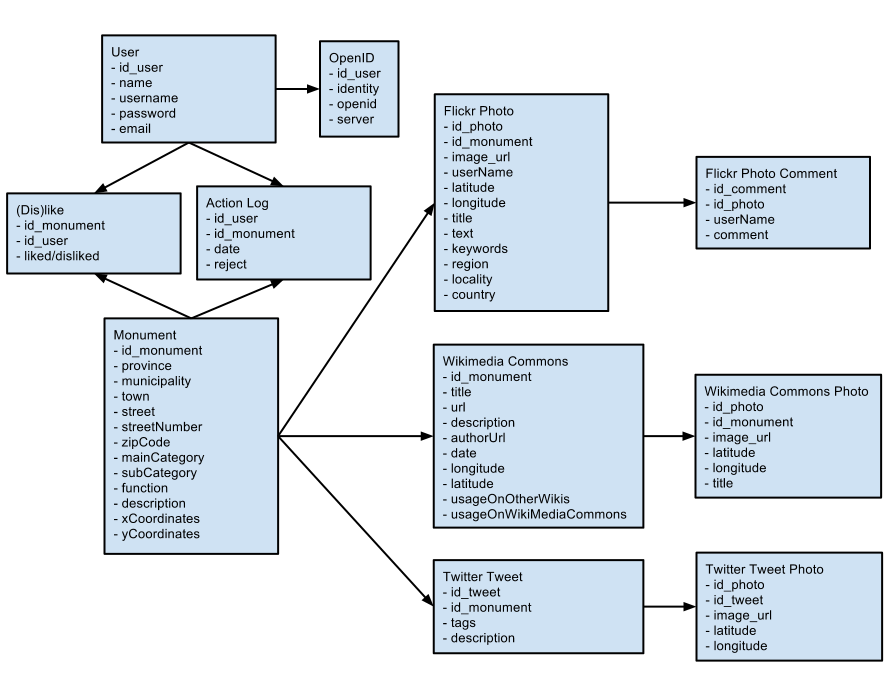
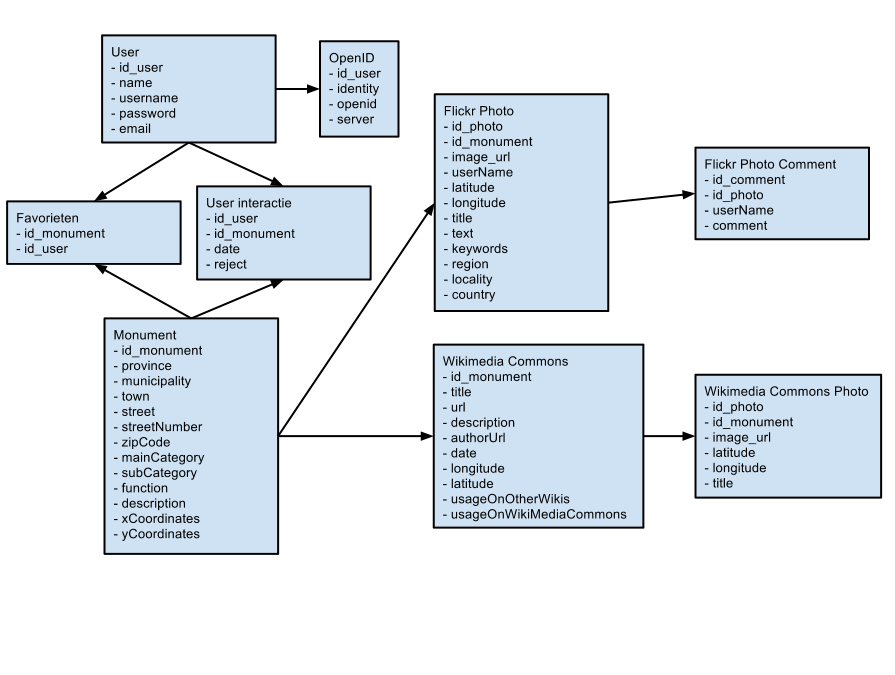
final requirements

diff --git a/reports/Requirements Analysis/final/requirements.tex b/reports/Requirements Analysis/final/requirements.tex
@@ -50,7 +50,6 @@
 \author{Sjoerd van Bekhoven\\ Tim Eversdijk \\ Herman Blanken \\ Rutger Plak \and 4014774 \\ 4005562 \\ 4078624 \\ 1358375}
 
 \maketitle
-\setcounter{page}{0}
 \thispagestyle{empty}
 \vspace{10cm}
 \begin{figure}[ht!]
@@ -58,6 +57,9 @@
 	\includegraphics[width=\textwidth]{cultuurapp-logo.png}
 \end{figure}
 \clearpage
+\setcounter{page}{0}
+\thispagestyle{empty}
+\
 \clearpage
 \tableofcontents
 
@@ -76,32 +78,30 @@ Het systeem \glossary{name={Systeem},description={de backend en\/of frontend}} z
 				
 	\rsubsection{Back-end}
 \glossary{name={Back-end},description={het deel van het systeem dat niet zichtbaar is voor de toerist}}
-	De back-end focust zich op het vergaren van nieuwe informatie voor ons systeem. Dit gebeurt op meerdere manieren:
+	De back-end focust zich op het vergaren van nieuwe en doorgeven aan de front-end van informatie. Dit gebeurt onder andere op de volgende manieren:
 	\begin{itemize}
-		\item Niet alle monumenten hebben standaard een categorie aan zich gelinkt. De back-end zal door middel van beeld- en tekstanalyse bepalen in welke categorie het monument ingedeeld moet worden.
-		\item Foto's van de monumenten zullen van Flickr en Wikimedia Commons gehaald worden.
+		\item Het completeren van de database door textuele en visuele analyse.
+		\item Het zoeken relevante foto's van Flickr en Wikimedia Commons.
 \glossary{name={Wikimedia Commons},description={website waar miljoenen multimedia bestanden verzameld zijn, welke door iedereen vrij te gebruiken zijn}}
 \glossary{name={Flickr},description={een website waarop mensen foto's kunnen uploaden en delen}}
-		\item Data en foto's worden via de API \glossary{name={API},description={een schil die functies en data van het desbetreffende systeem beschikbaar stelt voor de buitenwereld via gedocumenteerde functies
-}} van rijksmonumenten.nl opgehaald.
-		\item Er wordt user-interactie-informatie bijgehouden.
-		\item User-interactie-informatie wordt verwerkt tot bruikbare informatie, zoals bijvoorbeeld voorkeuren van users of applicatie brede aanbevelingen en sorteringen.
+		\item Het aanvullen van data van de monumenten door het koppelen van externe databronnen. \glossary{name={API},description={een schil die functies en data van het desbetreffende systeem beschikbaar stelt voor de buitenwereld via gedocumenteerde functies}}
+		\item Het bijhouden van gebruikersinteractie en deze te gebruiken bij aanbevelingen aan toeristen.
 	\end{itemize}
-
+	
 \rsection{Functional requirements}
 \rsubsection{Weergaves}
-	\rsubsubsection{Kaart}
+	\rsubsubsection{Kaartweergave}
 	\begin{enumerate}
-		\reqitem{overview-maps} Het systeem moet de gefilterde monumenten (beschreven in \ref{sec:sub:Filtering}) als spelden weergeven op een Google Maps\footnote{\label{googlemaps} http://code.google.com/apis/maps/index.html} kaart.	
+		\reqitem{overview-maps} Het systeem moet de gefilterde monumenten (beschreven in \ref{sec:sub:Filteren en zoeken}) als spelden weergeven op een Google Maps\footnote{\label{googlemaps} http://code.google.com/apis/maps/index.html} kaart.	
 		\reqitem{overview-gps} Het systeem moet de locatie van de de toerist op de Google Maps$^{\ref{googlemaps}}$ kaart aangeven, mits deze beschikbaar is. 
 	\end{enumerate}
 	
-	\rsubsubsection{Overzichtsweergave} \label{sec:views-detail}
+	\rsubsubsection{Lijstweergave} \label{sec:views-detail}
 	\begin{enumerate}
-		\reqitem{overview-list} De overzichtsweergave toont een lijst met op iedere rij een monument.
+		\reqitem{overview-list} De lijstweergave toont een lijst met op iedere rij een monument.
 		\reqitem{overview-info} Bij ieder monument staat een thumbnail, de titel, een korte beschrijving en categorie\"en.
 		\reqitem{overview-click} Wanneer de toerist op een rij klikt komt hij op de detailpagina.
-\reqitem{overview-order-filter} De getoonde set monumenten wordt bepaald door de door de toerist gekozen filtering en sortering als beschreven in \ref{filtering} \& \ref{sortering}.
+\reqitem{overview-order-filter} De getoonde set monumenten wordt bepaald door de door de toerist gekozen filtering en sortering als beschreven in \ref{sec:sub:Filteren en zoeken} \& \ref{sortering}.
 	\end{enumerate}
 	
 	\rsubsubsection{Detailpagina} \label{sec:views-detail}
@@ -115,10 +115,10 @@ Het systeem \glossary{name={Systeem},description={de backend en\/of frontend}} z
 \reqitem{detail-places-select} De toerist heeft de mogelijkheid om te selecteren welke faciliteiten rondom de monument-locatie worden getoond.
 \reqitem{detail-analyse} De detailpagina toont visueel gelijkende monumenten. Zie ook \ref{sec:sub:Monumenten vergelijken aan de hand van foto's}.
 		\reqitem{detail-favorize} De detailpagina bevat een knop waarmee een CultuurApp-gebruiker het monument aan zijn favorietenlijst kan toevoegen. Zie ook \ref{sec:sub:Favorieten toevoegen}.	
+\glossary{name={CultuurApp-gebruiker},description={een ingelogde gebruiker van het systeem}}
 \end{enumerate}
 
-\rsubsection{Filtering}
-\label{filtering}
+\rsubsection{Filteren en zoeken}
 \begin{enumerate}
 	\reqitem{filter-distance} Toeristen kunnen monumenten filteren op een bepaalde afstand van een zoeklocatie\footnote{\label{zoeklocatie}De zoeklocatie is een tekstvak op de webpagina waar een locatie in de vorm van een adres of door google maps herkende plaatsaanduiding kan worden ingegeven. Deze kan eventueel automatisch worden ingevuld met de locatie die de browser aanbiedt.}.
 	\reqitem{filter-keywords} Toeristen kunnen monumenten filteren op trefwoorden.	
@@ -131,7 +131,7 @@ Het systeem \glossary{name={Systeem},description={de backend en\/of frontend}} z
 \rsubsection{Sortering}
 \label{sortering}
 \begin{enumerate}
-\reqitem{sort-popularity} Toeristen kunnen monumenten sorteren op populariteit.
+\reqitem{sort-popularity} Toeristen kunnen monumenten sorteren op populariteit. Zie ook \ref{sec:sub:Populariteit}.
 \reqitem{sort-distance} Toeristen kunnen monumenten sorteren op afstand vanaf de gegeven zoeklocatie$^{\ref{zoeklocatie}}$.
 \reqitem{sort-year} Toeristen kunnen monumenten sorteren op bouwjaar.
 \end{enumerate}
@@ -143,6 +143,7 @@ Het systeem \glossary{name={Systeem},description={de backend en\/of frontend}} z
 	\reqitem{4sq-checkins} De website toont het aantal check-ins bij de venue (zie ook \reqref{views-checkins}).
 	\reqitem{detail-4sq} De website slaat bij het bezoeken van de detailpagina van een monument het meest recente aantal check-ins op FourSquare op.
 	\reqitem{harvest-4sq} Een beheerder kan voor een hele set toegevoegde monumenten FourSquare locaties aan laten maken en check-ins laten controleren. Dit kan ook ingepland worden.
+	\glossary{name={Beheerder},description={de ontwikkelaars van de applicatie}}
 \end{enumerate}
                 
 \rsubsection{Weersinformatie}
@@ -219,140 +220,139 @@ De CultuurApp-gebruiker moet foto's kunnen toevoegen van een monument.
 
 \rsubsection{Completeren dataset}
 \begin{enumerate}
-	\reqitem{completing-dataset} Het systeem kan de categorie-specifieke informatie filteren uit de afbeeldingen en beschrijvingen van moumenten met behulp van visuele en textuele analyse. Zie ook \ref{sec:sub:Visuele analyse} en \ref{sec:sub:Textuele analyse}.
+	\reqitem{completing-dataset} Het systeem kan de categorie-specifieke informatie filteren uit de afbeeldingen en beschrijvingen van monumenten met behulp van visuele en textuele analyse. Zie ook \ref{sec:sub:Visuele analyse} en \ref{sec:sub:Textuele analyse}.
 	\reqitem{completing-dataset-coupling} Het systeem kan met behulp van de verworven categorie-specifieke informatie de ongecategoriseerde monumenten indelen in een visueel en textueel gelijkende categorie.
 \end{enumerate}
 
+\rsubsection{Aanbevelingen}
+\begin{enumerate}
+	\reqitem{recom-general} Het systeem kan aanbevelingen geven aan toeristen aan de hand van het profiel dat aan de toerist of CultuurApp-gebruiker is toegewzen. Zie ook \ref{sec:sub:User profiler}.
+	\reqitem{recom-general} Het systeem neemt in de aanbevelingen ook de algemene populariteit mee. Zie ook \ref{sec:sub:Populariteit}.
+\end{enumerate}
 
-		
-\clearpage
+\rsubsection{Populariteit}
+\begin{enumerate}
+	\reqitem{popularity} Het systeem kan de algemene populariteit van een monument bepalen door de volgende dingen mee te nemen in een gewogen functie:
+\begin{enumerate}
+\item het aantal views
+\item het aantal foursquare check-ins Zie ook \ref{sec:sub:Foursquare}.
+\item het aantal keer op de favorietenlijst van CultuurApp-gebruikers. Zie ook \ref{sec:sub:Favorieten toevoegen}.
+	\end{enumerate}
+\end{enumerate}
+
+\rsubsection{User profiler}
+\begin{enumerate}
+	\reqitem{profiler-general} Het systeem kan toeristen en CultuurApp-gebruikers indelen in verschillende clusters aan de hand van handelingen van gebruikers. Zie ook \ref{sec:sub:Gebruikers interactie}.
+\end{enumerate}
 
 \rsection{Quality requirements}	
 		 	 	 		
-\begin{enumerate}			
-
-\item{Toegankelijkheid}
+\rsubsection{Toegankelijkheid}
 	\begin{enumerate}
 		\reqitem{toegankelijkheid-client} De client heeft slechts een webkit of Gecko internetbrowser met een javascript engine. Dit betekent dat het op iedere computer / handheld met een gerenomeerde webbrowser (Google Chrome, Mozilla Firefox, Safari) werkt. Op een handheld device, zoals een iPhone of Android toestel, zal het systeem ook werken. 
 		\reqitem{toegankelijkheid-locatie} Een toerist kan het systeem thuis gebruiken, maar ook op locatie (mits verbonden met internet).
 \end{enumerate}
 
-\item{Prestaties / Efficientie}
+\rsubsection{Prestaties / Efficientie}
 \begin{enumerate}	
-		\reqitem{perf-php} 
 	\reqitem{perf-js} De client berekent zelf de weergaves en de server wordt hier niet mee belast. Op deze manier wordt voorkomen dat kostbare resources worden verspilt.
 \end{enumerate}
 
-\item{Onderhoudbaarheid}
+\rsubsection{Onderhoudbaarheid}
 	\begin{enumerate}
 		\reqitem{maint-pieces}Alle verbindingen met externe of interne data wordt aan de hand van kleine stukken code gemaakt. Deze kleine stukken code zijn eenvoudig te onderhouden.
 		\reqitem{maint-repo}De updates kunnen eenvoudig op de webserver worden geinstalleerd door een nieuwe checkout van de code-repository te doen.
 		\reqitem{maint-lokaal}Het lokaal ontwikkelen maakt het mogelijk nieuwe software uitvoerig te testen voor het online te zetten.
 	\end{enumerate}
 
-\item{Betrouwbaarheid en beschikbaarheid}
+\rsubsection{Betrouwbaarheid en beschikbaarheid}
 \begin{enumerate}
 	\reqitem{avail-git} Door de manier van ontwikkelen is de server bij het updaten van de server slechts luttele seconden offline.
 	\reqitem{relia-test} De betrouwbaarheid van de updates wordt gegarandeerd door de update eerst uitvoerig te testen op lokale systemen die hetzelfde zijn geconfigureerd als de webserver.
 	\reqitem{avail-extern} Door het gebruik van verschillende externe databron valt bij het niet beschikbaar zijn van zo'n databron slechts (een deel van) een module uit.
 	\reqitem{avail-maps} De kaarten Google Maps$^{\ref{googlemaps}}$ zijn een kritiek component, indien Google Maps niet beschikbaar is, is het systeem onbruikbaar. Google Maps heeft echter een up-time van minimaal 99,9\%\footnote{http://www.google.com/enterprise/earthmaps/maps-sla.html}. Dat komt neer op maximaal 90 seconden per dag, in de praktijk merkt een toerist hier niets van.
+	\reqitem{avail-backup} Het systeem maakt elke nacht een back-up van alle opgeslagen data op een andere server.
 \end{enumerate}
 
-\item{Security} 
+\rsubsection{Security} 
 \begin{enumerate}
 \reqitem{sec-SQL} Het framework Kohana voorkomt sql-injections wanneer queries worden geseraliseerd via dit framework.
-\reqitem{sec-} 
 \end{enumerate}
-\item{Precisie and Accuraatheid} 
+\rsubsection{Precisie and Accuraatheid} 
 	\begin{enumerate}
 		\reqitem{prec-aanbevelingen} De aanbevelingen worden door het systeem op volgorde van relevantie getoond. Wanneer toeristen consequent niet de nummer 1 aanbeveling van een monument aanklikken, zal dit betekenen dat de aanbeveling niet correct is.
 \end{enumerate} 
-\end{enumerate}
 
-\rsection{Design requirements}	
-
-\begin{enumerate}		 	 	 		
-\item{Constraints based on the type of users} 
+\rsection{Design requirements}		 	 	 		
+\rsubsection{Constraints based on the type of users} 
 	\begin{enumerate}
-		\reqitem{upload-CA-user} CultuurApp-gebruikers kunnen foto's uploaden.
-		\reqitem{upload-tourist} Toeristen kunnen geen foto's uploaden.
-		\reqitem{favorites-CA-user} CultuurApp-gebruikers kunnen een favorietenlijstje bijhouden.
-		\reqitem{favorites-tourist} Toeristen kunnen geen favorietenlijstje bijhouden.
-		\reqitem{recom-CA-user} CultuurApp-gebruikers krijgen recommendation gebaseerd op hun eerder verzamelde data en dus ook van voorgaande bezoeken aan het systeem.
-		\reqitem{recom-tourist} Toeristen krijgen of geen recommendation of recommendations gebaseerd op hun net verzamelde data.
+		\reqitem{upload-CA-user} CultuurApp-gebruikers kunnen foto's uploaden. Zie ook \ref{sec:sub:Foto's toevoegen}.
+		\reqitem{upload-tourist} Toeristen kunnen geen foto's uploaden. Zie ook \ref{sec:sub:Foto's toevoegen}.
+		\reqitem{favorites-CA-user} CultuurApp-gebruikers kunnen een favorietenlijstje bijhouden. Zie ook \ref{sec:sub:Favorieten toevoegen}.
+		\reqitem{favorites-tourist} Toeristen kunnen geen favorietenlijstje bijhouden. Zie ook \ref{sec:sub:Favorieten toevoegen}.
+		\reqitem{recom-CA-user} CultuurApp-gebruikers krijgen recommendation gebaseerd op hun eerder verzamelde data en dus ook van voorgaande bezoeken aan het systeem. Zie ook \ref{sec:sub:Aanbevelingen}.
+		\reqitem{recom-tourist} Toeristen krijgen of geen recommendation of recommendations gebaseerd op hun net verzamelde data. Zie ook \ref{sec:sub:Aanbevelingen}.
 	\end{enumerate}
-
-\end{enumerate}
 	
 \rsection{Process requirements}	
-
-\begin{enumerate}
 		 	 	 		
-\item{Ontwikkelingsmethode}
+\rsubsection{Ontwikkelingsmethode}
 	\begin{enumerate}
 		\reqitem{methodology} SCRUM wordt gebruikt bij het ontwikkelen van het systeem.
 	\end{enumerate}
-\item{Kosten en opleveringsdatum}
+\rsubsection{Kosten en opleveringsdatum}
 	\begin{enumerate}
 		\reqitem{dev-enddate} Het systeem wordt 15 juni 2012 opgeleverd.
 		\reqitem{dev-costs} Het systeem wordt gratis opgeleverd.
 	\end{enumerate}
-\item{Documentation}
 
-\end{enumerate}
-
-	\rsubsection{Constraints}
-	\begin{itemize}
-		\reqitem De back-end van de software zal draaien op een Debian Linux machine met een Apache webserver. Visuele gelijkenissen en verschillen worden onderzocht met de objectgeori\"enteerde programmeertaal Java. De data zal worden opgeslagen in een (My)SQL database. Voor het afhandelen van verzoeken van de client wordt de programmeertaal PHP gebruikt.
-		\reqitem Aan de kant van de client wordt data opgehaald in HTML formaat. Hierin wordt de website opgebouwd met behulp van CSS. Om dynamisch dingen op de site te tonen of veranderen wordt JavaScript gebruikt.
-\end{itemize}
+	\rsection{Constraints}
+	\begin{enumerate}
+		\reqitem{constraints-backend} De back-end van de software zal draaien op een Debian Linux machine met een Apache webserver. Visuele gelijkenissen en verschillen worden onderzocht met de objectgeori\"enteerde programmeertaal Java. De data zal worden opgeslagen in een (My)SQL database. Voor het afhandelen van verzoeken van de client wordt de programmeertaal PHP gebruikt.
+		\reqitem{constraints-frontend} Aan de kant van de client wordt data opgehaald in HTML formaat. Hierin wordt de website opgebouwd met behulp van CSS. Om dynamisch dingen op de site te tonen of veranderen wordt JavaScript gebruikt.
+	\end{enumerate}
 		
 	\clearpage
 	\rsection{Analysis models}
 	\rsubsection{Use case models,descriptions and scenarios}
-		\rsubsubsection{Use case: selecteren}
+		\rsubsubsection{Use case: monumenten zoeken}
 		\begin{usecase}
-		\addheading{Actor}{Toerist} g
-			\addrow{Doel}{Het doel is de toerist op een eenvoudige wijze monumenten te laten zoeken aan de hand van verschillende criteria. De toerist moet aan de hand van zijn interesses de hoeveelheid monumenten verlagen zodat eenvoudig de interesses naar voren komen in de getoonde monumenten.}
-			\addrow{Triggers}{Deze use case wordt getriggerd zodra de toerist een of meerdere selectiecriteria invult.}
-			\addrow{Preconditie}{De set met getoonde monumenten is de set van alle monumenten.}
-			\addrow{Postconditie}{De input van de toerist wordt omgezet naar een set monumenten die aan de selectie voldoen. In de kaartweergave zal dit betekenen dat de hoeveelheid spelden verminderd. In de overzichtsweergave zal dit betekenen dat de hoeveelheid informatierijen verminderd.}
+		\addheading{Actor}{Toerist}
+			\addrow{Doel}{De toerist kan op eenvoudige wijze monumenten zoeken aan de hand van verschillende criteria. De toerist kan aan de hand van zijn interesses de hoeveelheid monumenten verlagen zodat eenvoudig de interesses naar voren komen in de getoonde monumenten.}
+			\addrow{Triggers}{De toerist maakt \'e\'en of meerdere selecties.}
+			\addrow{Preconditie}{De toerist heeft een bepaalde selectie gemaakt.}
+			\addrow{Stappen}{
+\begin{enumerate}
+\item De toerist maakt een selectie. 
+\item De selectie wordt naar de server verstuurd. 
+\item De data die de gebruiker heeft opgevraagd worden weergegeven aan de toerist.
+\end{enumerate}}	
+			\addrow{Postconditie}{De selectie van de toerist wordt omgezet naar een set monumenten die aan de selectie voldoen. In de kaartweergave zal dit betekenen dat de hoeveelheid spelden verminderd. In de lijstweergave zal dit betekenen dat de hoeveelheid informatierijen verminderd.}
 			\addrow{Samenvatting}{"Als toerist wil ik aan de hand van verschillende selectiecriteria de monumenten in de resultaatpagina beperken:
 				\begin{itemize}
 					\item Wanneer ik kaartweergave gebruik, moeten spelden verdwijnen of verschijnen afhankelijk van of de monumenten die deze spelden verantwoorden aan deze selectiecriteria voldoen.
-					\item Wanneer ik overzichtsweergave gebruik, moeten rijen informatie verdwijnen of verschijnen afhankelijk vam of de monumenten die deze rijen informatie verantwoorden aan deze selectiecriteria voldoen."
-				\end{itemize}
-			}
+					\item Wanneer ik lijstweergave gebruik, moeten rijen informatie verdwijnen of verschijnen afhankelijk vam of de monumenten die deze rijen informatie verantwoorden aan deze selectiecriteria voldoen."
+				\end{itemize}}
 			\end{usecase}
 
-			\rsubsubsection{Use case: informatie}
+			\rsubsubsection{Use case: Lijstweergave}
 			\begin{usecase} 
 			\addheading{Actor}{Toerist} 
-			\addrow{Doel}{Het doel is de toerist op een overzichtelijke en natuurlijke manier van informatie over het geselecteerde monument te voorzien. De toerist moet nuttige informatie te zien krijgen. Ook moet hij informatie te zien krijgen die hem kunnen helpen bij het bezoeken van het monument.}
-			\addrow{Triggers}{Deze use case beschrijft de situatie waarin de toerist een monument selecteert. In de overzichtsweergave gebeurt dit wanneer een informatierij die een monument vertegenwoordigt aangeklikt wordt. In de kaartweergave gebeurt dit bij het aanklikken van een speld die een monument vertegenwoordigt.}
-			\addrow{Preconditie}{De toerist weet niets van het geselecteerde monument.}
-			\addrow{Postconditie}{De toerist weet veel over het monument en heeft alle informatie die de toerist nodig heeft wanneer de toerist het monument zou willen bezoeken.}
-			\addrow{Samenvatting}{"Als toerist wil ik wanneer ik op een speld op de kaart, of informatierij in de overzichtsweergave klik, verwezen worden naar de pagina met informatie over het monument die de speld of informatierij verantwoord. Op deze pagina wil ik de informatie beschreven in figuur \ref{interface3} op pagina \pageref{interface3} te zien krijgen. Ik wil een kaartje te zien krijgen waarin is ingezoomd op het monument. Op de kaart wil ik in een straal van x kilometer hotels kunnen zoeken, evenals restaurants, barretjes en andere monumenten. Ik wil dat het systeem mijn interesses bepaald en aan de hand van mijn interesses monumenten aanraadt waar ik in ge\"interesseerd ben."}
+			\addrow{Doel}{De toerist op een overzichtelijke manier van informatie over het geselecteerde monument te voorzien. De toerist moet nuttige informatie te zien krijgen. Ook moet hij informatie te zien krijgen die hem kan helpen bij het bezoeken van het monument.}
+			\addrow{Triggers}{De toerist klikt op een speld op de kaart of op een rij in de lijstweergave.}
+			\addrow{Preconditie}{Er is een monument geselecteerd.}
+			\addrow{Postconditie}{De informatie beschreven in \ref{sec:sub:sub:Lijstweergave} wordt weergegeven.}
+			\addrow{Samenvatting}{"Als toerist wil ik wanneer ik op een speld op de kaart, of informatierij in de lijstweergave klik, verwezen worden naar de pagina met informatie over het monument die de speld of informatierij verantwoord. Op deze pagina wil ik de informatie beschreven in figuur \ref{interface3} op pagina \pageref{interface3} te zien krijgen. Ik wil een kaartje te zien krijgen waarin is ingezoomd op het monument. Op de kaart worden restaurants, barretjes en andere monumenten in de buurt weergeven. Ik wil dat het systeem mijn interesses bepaald en aan de hand van mijn interesses monumenten aanraadt waar ik in ge\"interesseerd ben."}
 			\end{usecase}	
-
-			\rsubsubsection{Use case: mobiliteit}
-			\begin{usecase} 
-			\addheading{Actor}{Toerist} 
-			\addrow{Doel}{De toerist op locatie voorzien van informatie en het mogelijk maken foto's toe te voegen aan het systeem.}
-			\addrow{Triggers}{De toerist gebruikt zijn mobiele apparaat om een monument te selecteren. Dit kan aan de hand van de selectieprocedure beschreven in use case 1, maar ook aan de hand van een lijst favoriete monumenten die aangemaakt kan worden zoals beschreven in use case 4.}
-			\addrow{Preconditie}{De toerist is onderweg en wil informatie opzoeken. De toerist heeft op zijn mobiele apparaat een internetverbinding waarmee de toerist het systeem kan raadplegen.}
-			\addrow{Postconditie}{De toerist heeft op locatie toegang tot informatie. Het systeem heeft extra foto's.}
-			\addrow{Samenvatting}{"Als toerist wil ik wanneer ik op de plaats van bestemming ben aangekomen met behulp van mijn mobiele apparaat een foto kunnen uploaden / twitteren die door het systeem wordt toegevoegd aan de foto's die bij het monument horen. Ik wil hierbij steekwoorden kunnen meegeven die door het systeem worden herkend. Wanneer ik via dit mobiele systeem een monument, hotel, bar, of ander point of interest selecteer, wil ik dat het navigatieprogramma van mijn mobiele apparaat automatisch opent, zodat ik hier eenvoudig naar toe geleid wordt."	}
-			\end{usecase}
 
 			\rsubsubsection{Use case: favorieten}
 			\begin{usecase} 
 			\addheading{Actor}{Toerist} 
-			\addrow{Doel}{De toerist zijn favoriete monumenten eenvoudig terug te laten vinden.}
+			\addrow{Doel}{De toerist kan zijn favoriete monumenten eenvoudig terugvinden.}
 			\addrow{Triggers}{De toerist voegt een monument toe aan zijn favorieten.}
-			\addrow{Preconditie}{De toerist heeft monumenten gevonden.}
-			\addrow{Postconditie}{De toerist kan inloggen om zijn lijst favoriete monumenten te raadplegen.}
-			\addrow{Samenvatting}{"Als toerist wil ik wanneer ik een monument heb gevonden dat ik graag zou willen bezoeken of op een later tijdstip nogmaals wil bekijken, dat ik dit monument aan een lijst kan toevoegen. Deze lijst wil ik altijd kunnen raadplegen na inloggen met mijn gebruikersnaam en wachtwoord of OpenID. Wanneer ik onderweg ben, wil ik op mijn mobiele apparaat kunnen inloggen en alle beschikbare informatie over dit monument kunnen zien. Wel wil ik zelf kunnen bepalen of andere toeristen mijn lijst met monumenten kunnen bekijken."}
+			\addrow{Preconditie}{De toerist heeft een interessant monument gevonden.}
+			\addrow{Postconditie}{De toerist is ingelogd en heeft het monument toegevoegd aan zijn favorieten.}
+			\addrow{Samenvatting}{"Als toerist wil ik wanneer ik een monument heb gevonden dat ik graag zou willen bezoeken of op een later tijdstip nogmaals wil bekijken, dat ik dit monument aan een lijst kan toevoegen. Deze lijst wil ik altijd kunnen raadplegen na inloggen met mijn gebruikersnaam/wachtwoord of een andere login-service."}
 			\end{usecase}	
 			
 			\rsubsubsection{Use case: toevoegen foto's}
@@ -360,50 +360,54 @@ De CultuurApp-gebruiker moet foto's kunnen toevoegen van een monument.
 			\addheading{Actor}{Toerist}
 \addrow{Doel}{De toerist extra foto's laten toevoegen aan de database.}
 \addrow{Triggers}{De toerist upload een foto.}
-			\addrow{Precondities}{De toerist is bij het monument en maakt een foto.}
+			\addrow{Precondities}{De toerist heeft een foto van een monument gemaakt.}
 			\addrow{Post condities}{De foto is toegevoegd aan de database van foto's die bij het monument horen.}
 			\addrow{Samenvatting}{"Als toerist wil ik als ik bij een monument ben een foto kunnen maken en deze op kunnen slaan in de database. Dit wil ik doen door vanuit de mobiele applicatie een foto te maken en te uploaden. Ook kan een toerist zodra hij of zij thuis komt foto's van een monument uploaden."}
 			\end{usecase}
 		
 \rsubsection{Business object model}
-		Het "Business object model" is het object model van ons systeem. Dit model is uitgebeeld in figuur \ref{bom}.
+		Het "Business object model" is een globaal object model van ons systeem. Dit model is uitgebeeld in figuur \ref{bom}.
 		\begin{figure}[ht!]
 			\centering
 			\includegraphics[width=\textwidth]{BusinessObjectModel.png}
 			\caption{Business Object Model \label{bom}}
 		\end{figure}
 		\rsubsection{Dynamische modellen}
-			\rsubsubsection{Overzichtspagina}
-			In figuur \ref{sequence1} is beschreven hoe de overzichtspagina tot stand komt. Hierin is ook te zien hoe de informatie die op de kaart moet worden weergeven naar een externe server wordt gestuurd, waarna er een kaartje met spelden wordt teruggestuurd. Zie ook \ref{sec:sub:sub:Kaart} en \ref{sec:sub:sub:Overzichtsweergave}.
+			\rsubsubsection{Kaartweergave}
+			In figuur \ref{sequence1} is beschreven hoe de kaartweergave tot stand komt. Hierin is ook te zien hoe de informatie die op de kaart moet worden weergeven naar een externe server wordt gestuurd, waarna er een kaartje met spelden wordt teruggestuurd. Zie ook \ref{sec:sub:sub:Kaartweergave}.
 \begin{figure}[ht!]
 				\centering
 				\includegraphics[width=\textwidth]{sequence1.png}
-				\caption{Sequence Diagram 1 \label{sequence1}}
-			\end{figure}
-			\rsubsubsection{Sequence diagram 2}
+				\caption{Sequence Diagram van de lijstweergave \label{sequence1}}
+			\end{figure}			
+
+			\rsubsubsection{Detailpagina}
+In figuur \ref{sequence1} is beschreven hoe de detailpagina tot stand komt. Hierin is ook te zien dat eerst het op de server beschikbare deel wordt ingeladen en daarna de informatie uit externe data-sources als deze niet zijn opgeslagen op de server. Zie ook \ref{sec:sub:sub:Detailpagina}.
 			figuur \ref{sequence2}.
 			\begin{figure}[ht!]
 				\centering
 				\includegraphics[width=\textwidth]{sequence2.png}
-				\caption{Sequence Diagram 2 \label{sequence2}}
+				\caption{Sequence Diagram van de detailpagina \label{sequence2}}
 			\end{figure}		
 		\clearpage			
 		\rsection{User interface}
+		In figuur \ref{interface1} is een globaal overzicht van de kaartweergave te zien, zoals beschreven in \ref{sec:sub:sub:Kaartweergave}. Hierin is duidelijk te zien hoe monumenten met speld worden aangeduid in de kaart en hoe enkele aanbevelingen worden gegeven aan de gebruiker.
 			\begin{figure}[ht!]
 			\centering
-			\includegraphics[height=10cm]{interface1.png}
-			\caption{Kaart met monumenten \label{interface1}}
+			\includegraphics[height=9cm]{interface1.png}
+			\caption{Globale kaartweergave \label{interface1}}
 			\end{figure}
-	
+		In figuur \ref{interface2} is een globaal overzicht van de lijstweergave te zien, zoals beschreven in \ref{sec:sub:sub:Lijstweergave}. Hierin is duidelijk te zien hoe monumenten met speld worden aangeduid in de kaart en hoe enkele aanbevelingen worden gegeven aan de gebruiker.
 			\begin{figure}[ht!]
 				\centering
-				\includegraphics[height=10cm]{interface2.png}
-				\caption{Overzichtspagina met monumenten \label{interface2}}
+				\includegraphics[height=8cm]{interface2.png}
+				\caption{Globale lijstweergave \label{interface2}}
 			\end{figure}
+			In figuur \ref{interface3} is een globaal overzicht van de detailpagina te zien, zoals beschreven in \ref{sec:sub:sub:Detailpagina}.
 			\begin{figure}[ht!]
 				\centering
-				\includegraphics[height=10cm]{interface3.png}
-				\caption{Detailpagina monument \label{interface3}}
+				\includegraphics[height=9cm]{interface3.png}
+				\caption{Globale detailpagina \label{interface3}}
 			\end{figure}
 	
 	\clearpage
